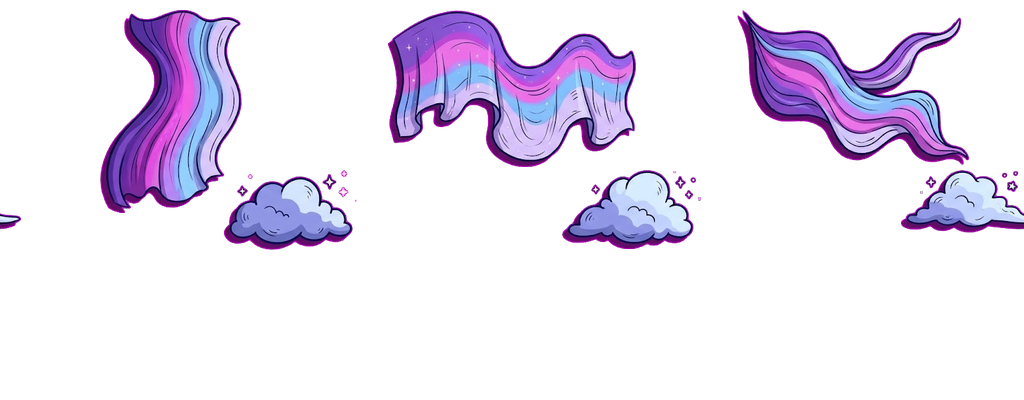
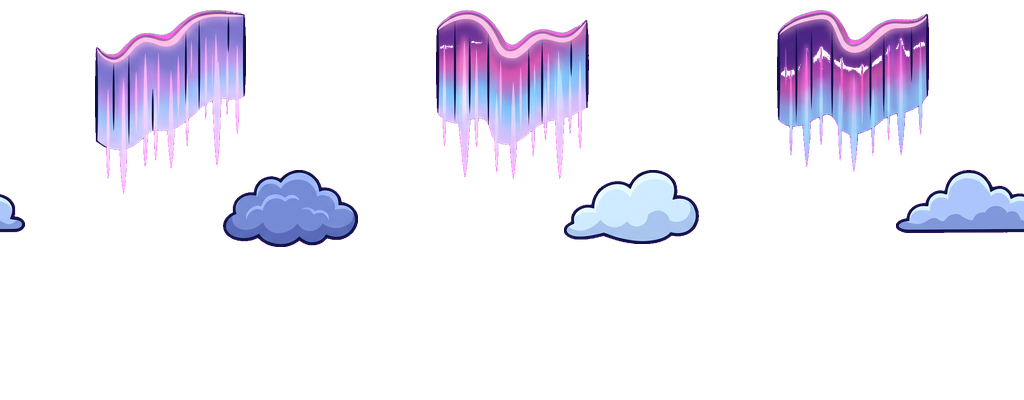
feat(art): redo aurora_night clouds_far as aurora curtains; document agy usage rules
Adds the agy iron rules (single instance, reuse session, stop on first failure,
always report) to docs/04 and a magenta-shadow filter to --strict.

diff --git a/tools/assets/agy_clouds_compose.py b/tools/assets/agy_clouds_compose.py
@@ -22,6 +22,7 @@ a = a * (1 - spill) + np.concatenate([g, g, g], -1) * spill * 0.9
 if '--strict' in sys.argv:  # 圖裡本身有粉紅/洋紅色塊時：只去掉與 #ff00ff 幾乎相同的底色，不用「洋紅度」判斷
     dist = np.sqrt(((orig - np.array([255, 0, 255], np.float32)) ** 2).sum(-1))
     alpha = np.clip((dist - 45) / 40, 0, 1)
+    alpha = alpha * (1 - ((orig[..., 1] < 60) & (m > 70)))  # 綠值很低的飽和洋紅 = 底色染色的陰影，去掉（粉紅條紋綠值較高，不受影響）
     spill = (dist < 70).astype(np.float32)[..., None] * np.clip((m - 20) / 100, 0, 1)[..., None]  # 只處理貼近底色的邊緣滲色
     a = orig * (1 - spill) + np.concatenate([g, g, g], -1) * spill * 0.9
 rgba = np.dstack([a, alpha * 255]).clip(0, 255).astype(np.uint8)

diff --git a/docs/04-art-asset-pipeline.md b/docs/04-art-asset-pipeline.md
@@ -199,6 +199,11 @@ pnpm run paint:units   # node tools/assets/paint_units.mjs
    * `--ball-auto`：球關節比砲管本體小時用（`--ball` 假設球直徑約等於砲管高度，寄居蟹的大鉗不符合）。自動偵測球心（砲管左段垂直範圍的第一個峰值，頸部之前），補透明讓球心落在寬度 8%、垂直置中；球心必須能蓋住車身砲座洞，生完圖要看球徑是否夠大。
    * 寄居蟹座標：`pivotX 36.4 / pivotY −22.4`、`face {x 25.2, y −55.2, eyeGap 20.8, eyeSize 7}`、`labelLift 15`；眼球直徑參數 `slice_expr.py --ball-px` 要用**車身貼圖眼柄頂球直徑的 2 倍**（因為圖集 `scale 0.2`、車身 `scale 0.4`；寄居蟹用 70）。
    * 專屬彈體貼圖（`shell_hermit_*.png`）不經這支腳本：同一個洋紅去背公式裁出左右兩顆、縮到寬 76 / 78（`sprite.scale 0.45`），直接放進 `public/assets/units/projectiles/`；`registry.test.ts` 會檢查 `sprite.key` 對應的檔案存在。
+7. **海馬的做法與表情 sheet 版面不同時的切法**（2026-10-25）：
+   * 車身 + 砲管 sheet：參考圖是 3/4 視角的整隻海馬，提示要求「純側視、朝右、單側履帶艙、無吻部無眼睛、吻部處只畫一塊圓形凹座；吻部另成一件、後端球關節」。切割用 `slice_sheet.py <sheet> <out> --id seahorse --hull-w 150 --accent blue --ball-auto`（海馬車身很高，寬 150 時高約 310，`sprite.scale` 用 0.34）。`--accent blue`：A 隊藍色轉銅橘、B 隊保留原圖藍色。腳本印出的 `socket_tex` 猜值不準（會落在身體中段），轉軸要在車身圖上畫格線量凹座中心（海馬是 (137, 70)），再代 `pivotX = (tx − W/2) × scale`、`pivotY = 14 − (H − ty) × scale`。
+   * 表情 sheet：Gemini 沒照 8 欄 × 4 列，給的是 6 欄 × 4 列、每個表情「近側眼 + 遠側眼」成對，且第 3 列是完整小眼球（不是只有瞳孔）。`slice_expr.py` 只吃 8 × 4，所以海馬用一支一次性腳本依像素框裁：近側眼取每對的左邊一顆；`eye_half` / `eye_sleepy` 共用半睜、`eye_hurt` 用生氣眼、`eye_dead` 用 X、`eye_closed` 用眼皮蓋下、`eye_happy` 用 ⌒；`far_wide` 把大眼的瞳孔塗白（引擎用它當白眼球再疊瞳孔）；`pupil_normal` 從小眼球裁出圓形瞳孔；`pupil_dizzy` 用程式畫螺旋。眼睛各零件寬 64，再用 `pack_face_atlas.py <dir> seahorse` 打包。海馬沒有嘴（`noMouth`）。
+   * **圖集 `scale` 手動改成 0.16**（預設 0.2）：眼睛縮小成約 10 px 才放得進海馬的頭；**重跑 `pack_face_atlas.py` 會把它改回 0.2**，要再改一次。
+   * 彈體 sheet：泡泡與墨汁是半透明與帶尾巴的形狀，同一個洋紅去背公式仍可用；泡泡縮到寬 60、墨汁雷縮到寬 92，放進 `public/assets/units/projectiles/`。
 
 ## 七、大廳與 HUD 紋理：`tools/assets/paint_ui.mjs`
 
@@ -244,6 +249,8 @@ pnpm run paint:ui   # node tools/assets/paint_ui.mjs
      - 提示須包含：本節的視角 / 背景 / 單一物件規範、色彩限制（嚴禁濁青色）、與 `refs/beetle`、`refs/seahorse` 既有 `*_tank.jpg` 對齊的畫風（光滑 3D 渲染卡通質感、蒸汽龐克黃銅鉚釘、單顆大眼、車頭朝左），以及「不得使用任何現有遊戲的美術」。
      - 一次請它產出 3 張不同方案（存成 `refs/<id>/concepts/concept_a/b/c.jpg`），由使用者挑選後，選定者再改名為 `<id>_tank.jpg`。
      - 不要加 `--dangerously-skip-permissions`（會被權限分類器拒絕）；以背景方式執行，產生期間 `-p` 不會顯示進度，圖出現在 `concepts/` 後再給使用者看。
+     - **使用 agy 的鐵則（使用者 2026-10 指定）**：① 同一時間只能有**一個** agy 在跑，嚴禁並行；② 重用同一個 session（後續呼叫加 `-c` 接續最近一次對話，或 `--conversation <ID>` 指定），不要每張圖都開新 session；③ **鐵律：一旦 agy 失敗（額度耗盡、報錯、沒產出檔案），就不得再呼叫 agy**——不重試、不換提示再試、不改開新 session，直接停手並回報使用者，是否再試由使用者決定；④ 不論成功或失敗都要回報使用者。
+     - 場景雲層（`clouds_far`）的做法：每張地圖請 agy 生一張洋紅底的元素圖集，再用 `tools/assets/agy_clouds_compose.py` 去背並錯落排成 1024x400 可銜接的雲層（`--strict` 用於圖內有粉紅/紫色時，`--tall-first` 用於高大元素，`--merge N` 用於零散小點）。
 3. **Colab 上的 TRELLIS.2 生成帶貼圖高模**（使用者自己操作，Agent 不在本機生成）：
    1. 使用者把參考圖（第 2 步的 `<id>_tank.jpg`）**上傳到 Google Drive**。
    2. 使用者在 Colab（L4 / A100，需 24GB 以上顯存；左側「密鑰」要有 `HF_TOKEN`）執行 [`tools/colab/trellis2_batch_folder.ipynb`](../tools/colab/trellis2_batch_folder.ipynb)：把 Drive 資料夾內**所有圖片**依序轉成 `<檔名>.glb`（約 100 萬面、4096 貼圖的高模）存回同一資料夾；`TARGETS` 預設 `[10000]`，會多輸出一份 Colab 內直接降到 1 萬面的 `<檔名>_10000.glb`（只當對照用，正式以第 4 步為準），設 `[]` 則只輸出高模。單張版是 [`trellis2_image_to_glb.ipynb`](../tools/colab/trellis2_image_to_glb.ipynb)。
